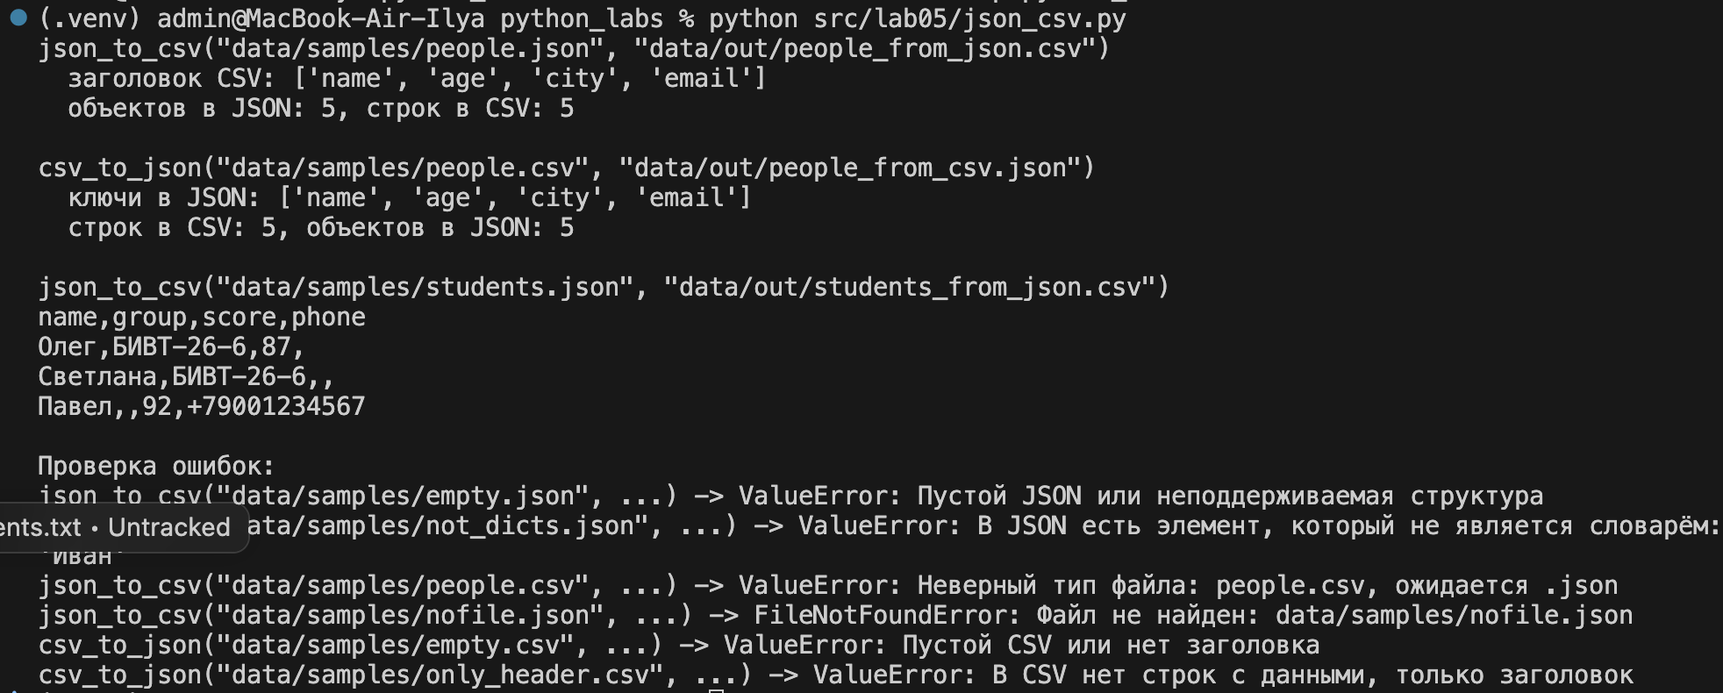
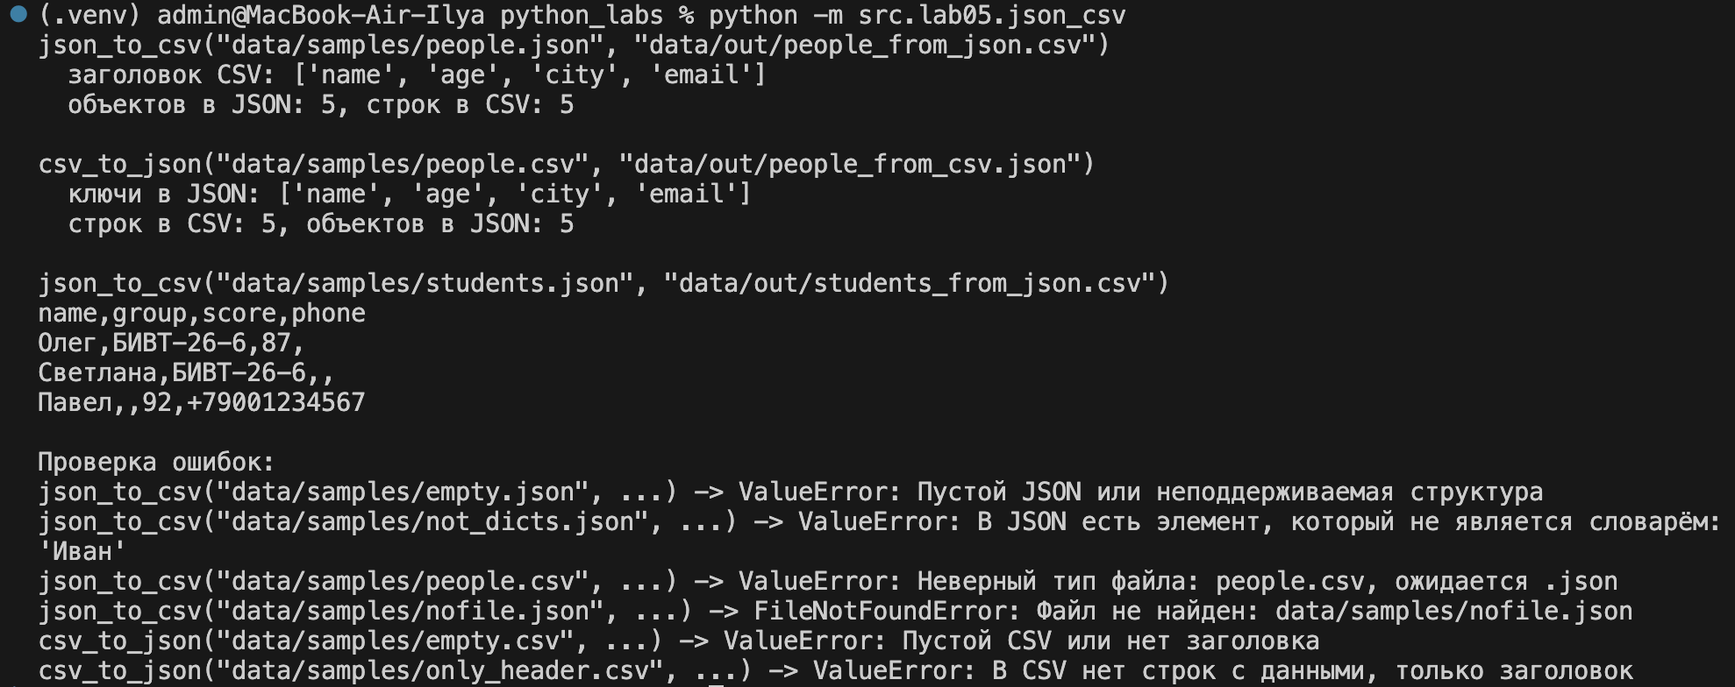
lab05 is ready

diff --git a/src/lab05/json_csv.py b/src/lab05/json_csv.py
@@ -51,8 +51,7 @@ def json_to_csv(json_path: str, csv_path: str) -> None:
     """Функция преобразует JSON-файл в CSV
 
     JSON должен быть списком словарей [{...}, {...}]. Порядок колонок - как в первом
-    объекте, ключи, которых нет в первом объекте, добавляются в конец в порядке появления.
-    Отсутствующие поля заполняются пустой строкой.
+    объекте. Если у объекта нет какого-то поля, оно заполняется пустой строкой.
 
     Аргументы:
         json_path: путь к входному JSON-файлу
@@ -63,18 +62,24 @@ def json_to_csv(json_path: str, csv_path: str) -> None:
 
     Ошибки:
         FileNotFoundError: если JSON-файла нет
-        ValueError: неверный тип файла, пустой или некорректный JSON,
-            не список или в списке есть не словари
+        ValueError: неверный тип файла, пустой или битый JSON, не список или в списке
+            есть не словари, у объекта есть поле, которого нет в первом объекте,
+            в значении лежит список или словарь (в одну ячейку CSV не влезает)
     """
 
     json_file = check_file(json_path, '.json')
     csv_file = check_out_file(csv_path, '.csv')
 
     with open(json_file, 'r', encoding='utf-8') as f:
-        try:
-            data = json.load(f)
-        except json.JSONDecodeError:
-            raise ValueError(f'Файл {json_file.name} не является корректным JSON')
+        text = f.read()
+
+    if text.strip() == '':
+        raise ValueError('Пустой JSON или неподдерживаемая структура')
+
+    try:
+        data = json.loads(text)
+    except json.JSONDecodeError as e:
+        raise ValueError(f'Битый JSON в файле {json_file.name}: {e.msg}, строка {e.lineno}')
 
     if not isinstance(data, list) or len(data) == 0:
         raise ValueError('Пустой JSON или неподдерживаемая структура')
@@ -83,11 +88,17 @@ def json_to_csv(json_path: str, csv_path: str) -> None:
         if not isinstance(item, dict):
             raise ValueError(f'В JSON есть элемент, который не является словарём: {item!r}')
 
-    fieldnames = []
-    for item in data:
-        for key in item:
+    fieldnames = list(data[0].keys())
+    if len(fieldnames) == 0:
+        raise ValueError('Первый объект в JSON пустой, колонок нет')
+
+    for i, item in enumerate(data, start=1):
+        for key, value in item.items():
             if key not in fieldnames:
-                fieldnames.append(key)
+                raise ValueError(f'В объекте {i} есть поле "{key}", которого нет в первом объекте')
+            if isinstance(value, (list, dict)):
+                raise ValueError(f'В объекте {i} в поле "{key}" лежит список или словарь, '
+                                 f'а в ячейку CSV помещается только одно значение')
 
     with open(csv_file, 'w', encoding='utf-8', newline='') as f:
         writer = csv.DictWriter(f, fieldnames=fieldnames, restval='')
@@ -142,11 +153,11 @@ def csv_to_json(csv_path: str, json_path: str) -> None:
         json.dump(rows, f, ensure_ascii=False, indent=2)
 
 
-if __name__ == '__main__':
+def main() -> None:
     json_to_csv('data/samples/people.json', 'data/out/people_from_json.csv')
     with open('data/samples/people.json', encoding='utf-8') as f:
         people = json.load(f)
-    with open('data/out/people_from_json.csv', encoding='utf-8') as f:
+    with open('data/out/people_from_json.csv', encoding='utf-8', newline='') as f:
         csv_rows = list(csv.DictReader(f))
         header = list(csv_rows[0].keys())
     print('json_to_csv("data/samples/people.json", "data/out/people_from_json.csv")')
@@ -154,7 +165,7 @@ if __name__ == '__main__':
     print(f'  объектов в JSON: {len(people)}, строк в CSV: {len(csv_rows)}')
 
     csv_to_json('data/samples/people.csv', 'data/out/people_from_csv.json')
-    with open('data/samples/people.csv', encoding='utf-8') as f:
+    with open('data/samples/people.csv', encoding='utf-8', newline='') as f:
         csv_rows = list(csv.DictReader(f))
     with open('data/out/people_from_csv.json', encoding='utf-8') as f:
         people = json.load(f)
@@ -164,13 +175,15 @@ if __name__ == '__main__':
 
     json_to_csv('data/samples/students.json', 'data/out/students_from_json.csv')
     print('\njson_to_csv("data/samples/students.json", "data/out/students_from_json.csv")')
-    with open('data/out/students_from_json.csv', encoding='utf-8') as f:
+    with open('data/out/students_from_json.csv', encoding='utf-8', newline='') as f:
         print(f.read().strip())
 
     print('\nПроверка ошибок:')
     bad_calls = [
         ('json_to_csv', 'data/samples/empty.json'),
+        ('json_to_csv', 'data/samples/broken.json'),
         ('json_to_csv', 'data/samples/not_dicts.json'),
+        ('json_to_csv', 'data/samples/extra_keys.json'),
         ('json_to_csv', 'data/samples/people.csv'),
         ('json_to_csv', 'data/samples/nofile.json'),
         ('csv_to_json', 'data/samples/empty.csv'),
@@ -184,3 +197,7 @@ if __name__ == '__main__':
                 csv_to_json(path, 'data/out/bad.json')
         except (ValueError, FileNotFoundError) as e:
             print(f'{func_name}("{path}", ...) -> {type(e).__name__}: {e}')
+
+
+if __name__ == '__main__':
+    main()

diff --git a/src/lab05/csv_xlsx.py b/src/lab05/csv_xlsx.py
@@ -71,7 +71,7 @@ def csv_to_xlsx(csv_path: str, xlsx_path: str) -> None:
     wb.save(xlsx_file)
 
 
-if __name__ == '__main__':
+def main() -> None:
     from openpyxl import load_workbook
 
     for src, dst in [('data/samples/people.csv', 'data/out/people.xlsx'),
@@ -93,3 +93,7 @@ if __name__ == '__main__':
             csv_to_xlsx(path, 'data/out/bad.xlsx')
         except (ValueError, FileNotFoundError) as e:
             print(f'csv_to_xlsx("{path}", ...) -> {type(e).__name__}: {e}')
+
+
+if __name__ == '__main__':
+    main()

diff --git a/src/lab05/README.md b/src/lab05/README.md
@@ -1,9 +1,16 @@
 # Лабораторная работа 5
 
+Цель: разобраться с форматом JSON, сериализацией/десериализацией и табличными конвертациями.
+
+## Подготовка
+
+Для конвертации в XLSX используется библиотека `openpyxl`, она указана в `requirements.txt`. Остальной код использует только стандартную библиотеку (`json`, `csv`, `pathlib`).
 
 ```bash
 pip install -r requirements.txt
 ```
+
+Все команды запускаются из корня репозитория `python_labs` через `python -m`. Так пути к файлам (`data/...`) считаются от корня, а импорты ищутся от корня, потому что в `sys.path[0]` попадает текущая папка. В папках `src`, `src/lib`, `src/lab04` и `src/lab05` лежат пустые `__init__.py`, они делают эти папки пакетами.
 
 ## Задание A - JSON и CSV `src/lab05/json_csv.py`
 
@@ -65,15 +72,14 @@ def check_out_file(path: str | Path, suffix: str) -> Path:
 
 Функция читает JSON-файл, который должен быть списком словарей, и записывает его в CSV через `csv.DictWriter`.
 
-Порядок колонок как в первом объекте. Если в следующих объектах встречаются новые ключи, они добавляются в конец в порядке появления. Если у объекта нет какого-то поля, в CSV на этом месте записывается пустая строка (`restval=''`).
+Порядок колонок - как в первом объекте. Если у объекта нет какого-то поля, в CSV на этом месте записывается пустая строка (`restval=''`). Если у объекта есть поле, которого нет в первом объекте, функция вызывает `ValueError`, чтобы данные не потерялись молча. Список или словарь внутри значения тоже вызывает `ValueError`, потому что в одну ячейку CSV они не помещаются.
 
 ```python
 def json_to_csv(json_path: str, csv_path: str) -> None:
     """Функция преобразует JSON-файл в CSV
 
     JSON должен быть списком словарей [{...}, {...}]. Порядок колонок - как в первом
-    объекте, ключи, которых нет в первом объекте, добавляются в конец в порядке появления.
-    Отсутствующие поля заполняются пустой строкой.
+    объекте. Если у объекта нет какого-то поля, оно заполняется пустой строкой.
 
     Аргументы:
         json_path: путь к входному JSON-файлу
@@ -84,18 +90,24 @@ def json_to_csv(json_path: str, csv_path: str) -> None:
 
     Ошибки:
         FileNotFoundError: если JSON-файла нет
-        ValueError: неверный тип файла, пустой или некорректный JSON,
-            не список или в списке есть не словари
+        ValueError: неверный тип файла, пустой или битый JSON, не список или в списке
+            есть не словари, у объекта есть поле, которого нет в первом объекте,
+            в значении лежит список или словарь (в одну ячейку CSV не влезает)
     """
 
     json_file = check_file(json_path, '.json')
     csv_file = check_out_file(csv_path, '.csv')
 
     with open(json_file, 'r', encoding='utf-8') as f:
-        try:
-            data = json.load(f)
-        except json.JSONDecodeError:
-            raise ValueError(f'Файл {json_file.name} не является корректным JSON')
+        text = f.read()
+
+    if text.strip() == '':
+        raise ValueError('Пустой JSON или неподдерживаемая структура')
+
+    try:
+        data = json.loads(text)
+    except json.JSONDecodeError as e:
+        raise ValueError(f'Битый JSON в файле {json_file.name}: {e.msg}, строка {e.lineno}')
 
     if not isinstance(data, list) or len(data) == 0:
         raise ValueError('Пустой JSON или неподдерживаемая структура')
@@ -104,11 +116,17 @@ def json_to_csv(json_path: str, csv_path: str) -> None:
         if not isinstance(item, dict):
             raise ValueError(f'В JSON есть элемент, который не является словарём: {item!r}')
 
-    fieldnames = []
-    for item in data:
-        for key in item:
+    fieldnames = list(data[0].keys())
+    if len(fieldnames) == 0:
+        raise ValueError('Первый объект в JSON пустой, колонок нет')
+
+    for i, item in enumerate(data, start=1):
+        for key, value in item.items():
             if key not in fieldnames:
-                fieldnames.append(key)
+                raise ValueError(f'В объекте {i} есть поле "{key}", которого нет в первом объекте')
+            if isinstance(value, (list, dict)):
+                raise ValueError(f'В объекте {i} в поле "{key}" лежит список или словарь, '
+                                 f'а в ячейку CSV помещается только одно значение')
 
     with open(csv_file, 'w', encoding='utf-8', newline='') as f:
         writer = csv.DictWriter(f, fieldnames=fieldnames, restval='')
@@ -118,7 +136,7 @@ def json_to_csv(json_path: str, csv_path: str) -> None:
 
 ### 3. Функция `csv_to_json`
 
-Функция читает CSV через `csv.DictReader`, каждая строка превращается в словарь, где ключи это названия колонок из заголовка. Все значения сохраняются как строки, потому что CSV не хранит типы данных. Запись выполняется через `json.dump(..., ensure_ascii=False, indent=2)`, поэтому русские буквы в JSON остаются читаемыми.
+Функция читает CSV через `csv.DictReader`, каждая строка превращается в словарь, где ключи - названия колонок из заголовка. Все значения сохраняются как строки, потому что CSV не хранит типы данных. Запись выполняется через `json.dump(..., ensure_ascii=False, indent=2)`, поэтому русские буквы в JSON остаются читаемыми.
 
 ```python
 def csv_to_json(csv_path: str, json_path: str) -> None:
@@ -174,9 +192,11 @@ def csv_to_json(csv_path: str, json_path: str) -> None:
 |---|---|
 | Файла нет | `FileNotFoundError` |
 | Неверное расширение файла (например, `.csv` вместо `.json`) | `ValueError` |
-| JSON не читается (синтаксическая ошибка) | `ValueError` |
-| Пустой JSON `[]` или JSON не является списком | `ValueError("Пустой JSON или неподдерживаемая структура")` |
+| Пустой файл `.json` или пустой список `[]`, или JSON не является списком | `ValueError("Пустой JSON или неподдерживаемая структура")` |
+| Битый JSON (например, лишняя запятая) | `ValueError` с текстом ошибки и номером строки |
 | В списке JSON есть элементы, которые не являются словарями | `ValueError` |
+| В объекте есть поле, которого нет в первом объекте | `ValueError` |
+| В значении лежит список или словарь | `ValueError` |
 | Пустой CSV или CSV без заголовка | `ValueError` |
 | В заголовке CSV пустая или повторяющаяся колонка | `ValueError` |
 | В CSV только заголовок, без строк с данными | `ValueError` |
@@ -185,11 +205,11 @@ def csv_to_json(csv_path: str, json_path: str) -> None:
 ### 5. Проверка модуля
 
 ```python
-if __name__ == '__main__':
+def main() -> None:
     json_to_csv('data/samples/people.json', 'data/out/people_from_json.csv')
     with open('data/samples/people.json', encoding='utf-8') as f:
         people = json.load(f)
-    with open('data/out/people_from_json.csv', encoding='utf-8') as f:
+    with open('data/out/people_from_json.csv', encoding='utf-8', newline='') as f:
         csv_rows = list(csv.DictReader(f))
         header = list(csv_rows[0].keys())
     print('json_to_csv("data/samples/people.json", "data/out/people_from_json.csv")')
@@ -197,7 +217,7 @@ if __name__ == '__main__':
     print(f'  объектов в JSON: {len(people)}, строк в CSV: {len(csv_rows)}')
 
     csv_to_json('data/samples/people.csv', 'data/out/people_from_csv.json')
-    with open('data/samples/people.csv', encoding='utf-8') as f:
+    with open('data/samples/people.csv', encoding='utf-8', newline='') as f:
         csv_rows = list(csv.DictReader(f))
     with open('data/out/people_from_csv.json', encoding='utf-8') as f:
         people = json.load(f)
@@ -207,13 +227,15 @@ if __name__ == '__main__':
 
     json_to_csv('data/samples/students.json', 'data/out/students_from_json.csv')
     print('\njson_to_csv("data/samples/students.json", "data/out/students_from_json.csv")')
-    with open('data/out/students_from_json.csv', encoding='utf-8') as f:
+    with open('data/out/students_from_json.csv', encoding='utf-8', newline='') as f:
         print(f.read().strip())
 
     print('\nПроверка ошибок:')
     bad_calls = [
         ('json_to_csv', 'data/samples/empty.json'),
+        ('json_to_csv', 'data/samples/broken.json'),
         ('json_to_csv', 'data/samples/not_dicts.json'),
+        ('json_to_csv', 'data/samples/extra_keys.json'),
         ('json_to_csv', 'data/samples/people.csv'),
         ('json_to_csv', 'data/samples/nofile.json'),
         ('csv_to_json', 'data/samples/empty.csv'),
@@ -227,10 +249,14 @@ if __name__ == '__main__':
                 csv_to_json(path, 'data/out/bad.json')
         except (ValueError, FileNotFoundError) as e:
             print(f'{func_name}("{path}", ...) -> {type(e).__name__}: {e}')
+
+
+if __name__ == '__main__':
+    main()
 ```
 
 ```bash
-python src/lab05/json_csv.py
+python -m src.lab05.json_csv
 ```
 
 ![Проверка модуля json_csv](../../images/lab05/img01.png)
@@ -329,7 +355,7 @@ def csv_to_xlsx(csv_path: str, xlsx_path: str) -> None:
 ### Проверка модуля
 
 ```python
-if __name__ == '__main__':
+def main() -> None:
     from openpyxl import load_workbook
 
     for src, dst in [('data/samples/people.csv', 'data/out/people.xlsx'),
@@ -351,10 +377,14 @@ if __name__ == '__main__':
             csv_to_xlsx(path, 'data/out/bad.xlsx')
         except (ValueError, FileNotFoundError) as e:
             print(f'csv_to_xlsx("{path}", ...) -> {type(e).__name__}: {e}')
+
+
+if __name__ == '__main__':
+    main()
 ```
 
 ```bash
-python src/lab05/csv_xlsx.py
+python -m src.lab05.csv_xlsx
 ```
 
 ![Проверка модуля csv_xlsx](../../images/lab05/img02.png)
@@ -390,28 +420,28 @@ name,age,city,email
 
 Заголовок CSV совпадает с ключами объектов: `name,age,city,email`. В JSON 5 объектов, в CSV 5 строк с данными (без заголовка).
 
-### Сценарий 2. JSON с разными полями
+### Сценарий 2. JSON с пропущенными полями
 
-Собственный пример `data/samples/students.json`, где у объектов разный набор ключей:
+Собственный пример `data/samples/students.json`, где у некоторых объектов нет части полей:
 
 ```json
 [
   {"name": "Олег", "group": "БИВТ-26-6", "score": 87},
   {"name": "Светлана", "group": "БИВТ-26-6"},
-  {"name": "Павел", "score": 92, "phone": "+79001234567"}
+  {"name": "Павел", "score": 92}
 ]
 ```
 
 Результат `data/out/students_from_json.csv`:
 
 ```csv
-name,group,score,phone
-Олег,БИВТ-26-6,87,
-Светлана,БИВТ-26-6,,
-Павел,,92,+79001234567
+name,group,score
+Олег,БИВТ-26-6,87
+Светлана,БИВТ-26-6,
+Павел,,92
 ```
 
-Колонки `name`, `group`, `score` взяты из первого объекта, колонка `phone` появилась только в третьем объекте и добавилась в конец. Отсутствующие значения заполнены пустой строкой.
+Колонки взяты из первого объекта. У Светланы нет поля `score`, а у Павла нет поля `group`, поэтому в этих ячейках пустые строки.
 
 ### Сценарий 3. CSV в JSON
 
@@ -451,7 +481,7 @@ name,age,city,email
 ### Сценарий 4. CSV в XLSX
 
 ```bash
-python src/lab05/csv_xlsx.py
+python -m src.lab05.csv_xlsx
 ```
 
 Из `data/samples/people.csv` получается `data/out/people.xlsx`, из `data/samples/cities.csv` - `data/out/cities.xlsx`. Файлы открываются в Excel, лист называется `Sheet1`, ширина колонок подобрана по длине текста.
@@ -469,7 +499,18 @@ python src/lab05/csv_xlsx.py
 | Файл | Что проверяет |
 |---|---|
 | `data/samples/empty.json` | пустой список `[]` |
+| `data/samples/broken.json` | битый JSON, лишняя запятая в конце списка |
 | `data/samples/not_dicts.json` | в списке есть строка и число вместо словарей |
+| `data/samples/extra_keys.json` | у второго объекта есть поле, которого нет в первом |
 | `data/samples/empty.csv` | полностью пустой CSV |
 | `data/samples/only_header.csv` | CSV только с заголовком |
 | `data/samples/bad_rows.csv` | строка с меньшим количеством значений |
+
+## Допущения
+
+- Кодировка всех файлов - UTF-8.
+- Разделитель в CSV - запятая.
+- JSON должен быть списком плоских словарей, вложенные списки и словари не поддерживаются.
+- Порядок колонок при конвертации JSON в CSV - как в первом объекте.
+- При конвертации CSV в JSON все значения остаются строками, типы не приводятся.
+- В XLSX все значения записываются как текст, так как в CSV типов нет.
